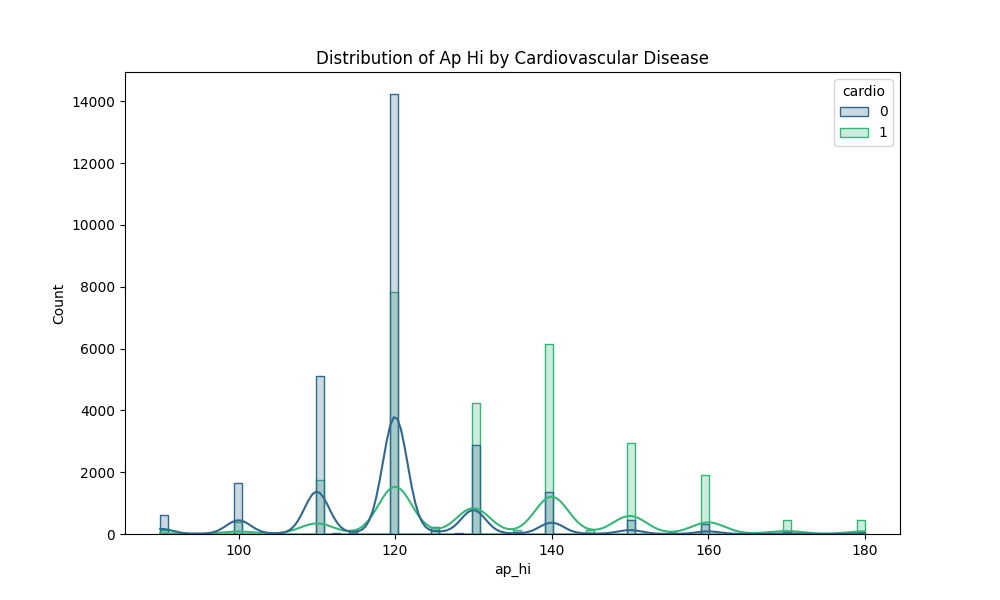
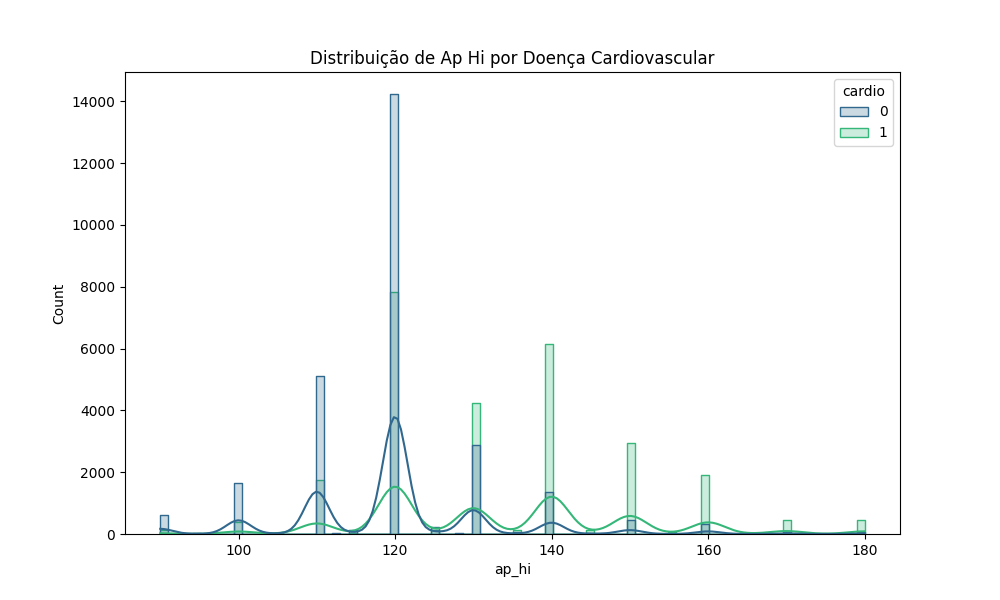
feat: translate all to portuguese

Changed region(s): [[0.31, 0.09, 0.713, 0.12]]

diff --git a/dashboard/pages/naive_bayes.py b/dashboard/pages/naive_bayes.py
@@ -46,16 +46,16 @@ def create_metric_card(title, value, is_highlighted=False):
     )
 
 def read_report_metrics():
-    """Reads metrics from the report file."""
-    metrics = {"Accuracy": "N/A", "Precision": "N/A", "Recall": "N/A", "F1-Score": "N/A", "report": "Report not found."}
+    """Lê métricas do arquivo de relatório."""
+    metrics = {"Accuracy": "N/A", "Precision": "N/A", "Recall": "N/A", "F1-Score": "N/A", "report": "Relatório não encontrado."}
     try:
         with open(REPORTS_PATH / "naive_bayes_report.txt", "r") as f:
             content = f.read()
             metrics["report"] = content
             
             # Use regex to find the values
-            accuracy_match = re.search(r"Accuracy: ([\d.]+)", content)
-            precision_match = re.search(r"Precision: ([\d.]+)", content)
+            accuracy_match = re.search(r"Acurácia: ([\d.]+)", content)
+            precision_match = re.search(r"Precisão: ([\d.]+)", content)
             recall_match = re.search(r"Recall: ([\d.]+)", content)
             f1_match = re.search(r"F1-Score: ([\d.]+)", content)
 
@@ -69,7 +69,7 @@ def read_report_metrics():
                 metrics["F1-Score"] = f"{float(f1_match.group(1)) * 100:.2f}%"
 
     except FileNotFoundError:
-        print("Report file not found.")
+        print("Arquivo de relatório não encontrado.")
     return metrics
 
 def encode_image(image_path):
@@ -94,56 +94,56 @@ continuous_features = ['age_years', 'ap_hi', 'ap_lo', 'bmi']
 # --- Live Prediction Components ---
 prediction_card = dbc.Card(
     dbc.CardBody([
-        html.H4("🔮 Live Prediction", className="card-title text-center mb-4"),
+        html.H4("🔮 Predição em Tempo Real", className="card-title text-center mb-4"),
         dbc.Row([
             # Column 1: Continuous Features
             dbc.Col([
-                dbc.Label("Age (Years)", html_for="nb-age-years"),
-                dbc.Input(id="nb-age-years", type="number", placeholder="e.g., 50", min=3, max=120),
+                dbc.Label("Idade (Anos)", html_for="nb-age-years"),
+                dbc.Input(id="nb-age-years", type="number", placeholder="ex.: 50", min=3, max=120),
                 html.Br(),
-                dbc.Label("Height (cm)", html_for="nb-height"),
-                dbc.Input(id="nb-height", type="number", placeholder="e.g., 168", min=30, max=220),
+                dbc.Label("Altura (cm)", html_for="nb-height"),
+                dbc.Input(id="nb-height", type="number", placeholder="ex.: 168", min=30, max=220),
                 html.Br(),
-                dbc.Label("Weight (kg)", html_for="nb-weight"),
-                dbc.Input(id="nb-weight", type="number", placeholder="e.g., 70.0", min=5, max=400, step=0.1),
+                dbc.Label("Peso (kg)", html_for="nb-weight"),
+                dbc.Input(id="nb-weight", type="number", placeholder="ex.: 70.0", min=5, max=400, step=0.1),
                 html.Br(),
-                dbc.Label("Systolic Blood Pressure (ap_hi)", html_for="nb-ap-hi"),
-                dbc.Input(id="nb-ap-hi", type="number", placeholder="e.g., 120", min=60, max=240),
+                dbc.Label("Pressão Sistólica (ap_hi)", html_for="nb-ap-hi"),
+                dbc.Input(id="nb-ap-hi", type="number", placeholder="ex.: 120", min=60, max=240),
                 html.Br(),
-                dbc.Label("Diastolic Blood Pressure (ap_lo)", html_for="nb-ap-lo"),
-                dbc.Input(id="nb-ap-lo", type="number", placeholder="e.g., 80", min=40, max=180),
+                dbc.Label("Pressão Diastólica (ap_lo)", html_for="nb-ap-lo"),
+                dbc.Input(id="nb-ap-lo", type="number", placeholder="ex.: 80", min=40, max=180),
             ], md=6),
             # Column 2: Categorical Features
             dbc.Col([
-                dbc.Label("Gender", html_for="nb-gender"),
-                dcc.Dropdown(id="nb-gender", options=[{'label': 'Female', 'value': 0}, {'label': 'Male', 'value': 1}], placeholder="Select..."),
+                dbc.Label("Gênero", html_for="nb-gender"),
+                dcc.Dropdown(id="nb-gender", options=[{'label': 'Feminino', 'value': 0}, {'label': 'Masculino', 'value': 1}], placeholder="Selecione..."),
                 html.Br(),
-                dbc.Label("Cholesterol", html_for="nb-cholesterol"),
+                dbc.Label("Colesterol", html_for="nb-cholesterol"),
                 dcc.Dropdown(id="nb-cholesterol", options=[
                     {'label': 'Normal', 'value': 1},
-                    {'label': 'Above Normal', 'value': 2},
-                    {'label': 'Well Above Normal', 'value': 3}
-                ], placeholder="Select..."),
+                    {'label': 'Acima do Normal', 'value': 2},
+                    {'label': 'Muito Acima do Normal', 'value': 3}
+                ], placeholder="Selecione..."),
                 html.Br(),
-                dbc.Label("Glucose", html_for="nb-gluc"),
+                dbc.Label("Glicose", html_for="nb-gluc"),
                 dcc.Dropdown(id="nb-gluc", options=[
                     {'label': 'Normal', 'value': 1},
-                    {'label': 'Above Normal', 'value': 2},
-                    {'label': 'Well Above Normal', 'value': 3}
-                ], placeholder="Select..."),
+                    {'label': 'Acima do Normal', 'value': 2},
+                    {'label': 'Muito Acima do Normal', 'value': 3}
+                ], placeholder="Selecione..."),
                 html.Br(),
-                dbc.Label("Smoker?", html_for="nb-smoke"),
-                dcc.Dropdown(id="nb-smoke", options=[{'label': 'No', 'value': 0}, {'label': 'Yes', 'value': 1}], placeholder="Select..."),
+                dbc.Label("Fumante?", html_for="nb-smoke"),
+                dcc.Dropdown(id="nb-smoke", options=[{'label': 'Não', 'value': 0}, {'label': 'Sim', 'value': 1}], placeholder="Selecione..."),
                 html.Br(),
-                dbc.Label("Drinks Alcohol?", html_for="nb-alco"),
-                dcc.Dropdown(id="nb-alco", options=[{'label': 'No', 'value': 0}, {'label': 'Yes', 'value': 1}], placeholder="Select..."),
+                dbc.Label("Bebe Álcool?", html_for="nb-alco"),
+                dcc.Dropdown(id="nb-alco", options=[{'label': 'Não', 'value': 0}, {'label': 'Sim', 'value': 1}], placeholder="Selecione..."),
                 html.Br(),
-                dbc.Label("Physically Active?", html_for="nb-active"),
-                dcc.Dropdown(id="nb-active", options=[{'label': 'No', 'value': 0}, {'label': 'Yes', 'value': 1}], placeholder="Select..."),
+                dbc.Label("Ativo Fisicamente?", html_for="nb-active"),
+                dcc.Dropdown(id="nb-active", options=[{'label': 'Não', 'value': 0}, {'label': 'Sim', 'value': 1}], placeholder="Selecione..."),
             ], md=6),
         ]),
         html.Div(
-            dbc.Button("Get Prediction", id="nb-predict-button", color="primary", n_clicks=0, className="mt-4 w-100"),
+            dbc.Button("Obter Predição", id="nb-predict-button", color="primary", n_clicks=0, className="mt-4 w-100"),
             className="d-grid gap-2",
         ),
         html.Div(id="nb-prediction-output", className="mt-4 text-center fs-4"),
@@ -156,13 +156,13 @@ layout = dbc.Container([
     # ========== HERO SECTION ==========
     html.Div([
         html.Div([
-            html.H1("📊 Naive Bayes Classifier",
+            html.H1("📊 Classificador Naive Bayes",
                    className="display-4 fw-bold text-white mb-3"),
-            html.P("Probabilistic Classification for Cardiovascular Risk",
+            html.P("Classificação Probabilística para Risco Cardiovascular",
                   className="lead text-white-50 mb-4"),
             dbc.Row([
-                dbc.Col(create_metric_card("Accuracy", metrics["Accuracy"])),
-                dbc.Col(create_metric_card("Precision", metrics["Precision"], is_highlighted=True)),
+                dbc.Col(create_metric_card("Precisão", metrics["Precision"], is_highlighted=True)),
+                dbc.Col(create_metric_card("Acurácia", metrics["Accuracy"])),
                 dbc.Col(create_metric_card("Recall", metrics["Recall"])),
                 dbc.Col(create_metric_card("F1-Score", metrics["F1-Score"])),
             ])
@@ -178,21 +178,21 @@ layout = dbc.Container([
     prediction_card,
 
     # Visualizations
-    html.H3("Model Performance Visualizations", className="my-4 text-center"),
+    html.H3("Visualizações de Desempenho do Modelo", className="my-4 text-center"),
     dbc.Tabs([
-        dbc.Tab(label="Confusion Matrix", children=[
+        dbc.Tab(label="Matriz de Confusão", children=[
             html.Img(src=confusion_matrix_img, style={'width': '100%', 'max-width': '600px', 'margin': 'auto', 'display': 'block'})
         ]),
-        dbc.Tab(label="ROC Curve", children=[
+        dbc.Tab(label="Curva ROC", children=[
             html.Img(src=roc_curve_img, style={'width': '100%', 'max-width': '600px', 'margin': 'auto', 'display': 'block'})
         ]),
-        dbc.Tab(label="Precision-Recall Curve", children=[
+        dbc.Tab(label="Curva Precisão-Recall", children=[
             html.Img(src=pr_curve_img, style={'width': '100%', 'max-width': '600px', 'margin': 'auto', 'display': 'block'})
         ]),
-        dbc.Tab(label="Feature Distributions", children=[
+        dbc.Tab(label="Distribuições de Características", children=[
             dbc.Row([
                 dbc.Col([
-                    html.Label("Select Feature:", className="fw-bold"),
+                    html.Label("Selecione Característica:", className="fw-bold"),
                     dcc.Dropdown(
                         id='dist-feature-dropdown',
                         options=[{'label': feat.replace("_", " ").title(), 'value': feat} for feat in continuous_features],
@@ -208,7 +208,7 @@ layout = dbc.Container([
     html.Hr(className="my-5"),
 
     # Classification Report
-    html.H3("Classification Report", className="my-4"),
+    html.H3("Relatório de Classificação", className="my-4"),
     dbc.Card(
         dbc.CardBody([
             dcc.Markdown(f"```\n{metrics['report']}\n```")
@@ -238,7 +238,7 @@ def predict_live(n_clicks, age_years, height, weight, ap_hi, ap_lo, gender, chol
 
     # Validate that all fields are filled
     if any(v is None for v in [age_years, height, weight, ap_hi, ap_lo, gender, cholesterol, gluc, smoke, alco, active]):
-        return dbc.Alert("Please fill in all fields to get a prediction.", color="warning")
+        return dbc.Alert("Por favor, preencha todos os campos para obter uma predição.", color="warning")
 
     try:
         # Load the entire pipeline (preprocessor + model)
@@ -264,21 +264,21 @@ def predict_live(n_clicks, age_years, height, weight, ap_hi, ap_lo, gender, chol
 
         # Display result
         if prediction == 1:
-            result_text = "High Risk of Cardiovascular Disease"
+            result_text = "Alto Risco de Doença Cardiovascular"
             result_color = "danger"
             prob_value = f"{probability[1]*100:.2f}%"
         else:
-            result_text = "Low Risk of Cardiovascular Disease"
+            result_text = "Baixo Risco de Doença Cardiovascular"
             result_color = "success"
             prob_value = f"{probability[0]*100:.2f}%"
 
         return dbc.Alert([
             html.H5(result_text, className="alert-heading"),
-            html.P(f"Confidence: {prob_value}")
+            html.P(f"Confiança: {prob_value}")
         ], color=result_color)
 
     except Exception as e:
-        return dbc.Alert(f"Prediction failed: {e}", color="danger")
+        return dbc.Alert(f"Falha na predição: {e}", color="danger")
 
 @callback(
     Output('dist-plot-img', 'src'),

diff --git a/classification/naive_bayes/train_naive_bayes.py b/classification/naive_bayes/train_naive_bayes.py
@@ -92,13 +92,13 @@ recall = recall_score(y_test, y_pred)
 f1 = f1_score(y_test, y_pred)
 report = classification_report(y_test, y_pred)
 
-report_content = f"""Best Parameters: {grid_search.best_params_}
-Accuracy: {accuracy}
-Precision: {precision}
+report_content = f"""Melhores Parâmetros: {grid_search.best_params_}
+Acurácia: {accuracy}
+Precisão: {precision}
 Recall: {recall}
 F1-Score: {f1}
 
-Classification Report:
+Relatório de Classificação:
 {report}
 """
 
@@ -113,7 +113,7 @@ X_with_target['cardio'] = y_train
 for feature in continuous_features:
     plt.figure(figsize=(10, 6))
     sns.histplot(data=X_with_target, x=feature, hue='cardio', kde=True, palette='viridis', element='step')
-    plt.title(f'Distribution of {feature.replace("_", " ").title()} by Cardiovascular Disease')
+    plt.title(f'Distribuição de {feature.replace("_", " ").title()} por Doença Cardiovascular')
     plt.savefig(f'classification/results/distributions/dist_{feature}.png')
     plt.close()
 
@@ -121,9 +121,9 @@ for feature in continuous_features:
 cm = confusion_matrix(y_test, y_pred)
 plt.figure(figsize=(8, 6))
 sns.heatmap(cm, annot=True, fmt='d', cmap='Blues')
-plt.title('Naive Bayes Confusion Matrix')
-plt.xlabel('Predicted')
-plt.ylabel('Actual')
+plt.title('Matriz de Confusão - Naive Bayes')
+plt.xlabel('Previsto')
+plt.ylabel('Real')
 plt.savefig('classification/results/naive_bayes_confusion_matrix.png')
 plt.close()
 
@@ -131,11 +131,11 @@ plt.close()
 fpr, tpr, _ = roc_curve(y_test, y_prob)
 roc_auc = auc(fpr, tpr)
 plt.figure(figsize=(8, 6))
-plt.plot(fpr, tpr, color='darkorange', lw=2, label=f'ROC curve (area = {roc_auc:.2f})')
+plt.plot(fpr, tpr, color='darkorange', lw=2, label=f'Curva ROC (área = {roc_auc:.2f})')
 plt.plot([0, 1], [0, 1], color='navy', lw=2, linestyle='--')
-plt.xlabel('False Positive Rate')
-plt.ylabel('True Positive Rate')
-plt.title('Naive Bayes ROC Curve')
+plt.xlabel('Taxa de Falsos Positivos')
+plt.ylabel('Taxa de Verdadeiros Positivos')
+plt.title('Curva ROC - Naive Bayes')
 plt.legend(loc='lower right')
 plt.savefig('classification/results/naive_bayes_roc_curve.png')
 plt.close()
@@ -144,12 +144,12 @@ plt.close()
 precision_curve, recall_curve, _ = precision_recall_curve(y_test, y_prob)
 pr_auc = auc(recall_curve, precision_curve)
 plt.figure(figsize=(8, 6))
-plt.plot(recall_curve, precision_curve, lw=2, color='blue', label=f'Precision-Recall curve (area = {pr_auc:.2f})')
+plt.plot(recall_curve, precision_curve, lw=2, color='blue', label=f'Curva Precisão-Recall (área = {pr_auc:.2f})')
 plt.xlabel('Recall')
-plt.ylabel('Precision')
-plt.title('Naive Bayes Precision-Recall Curve')
+plt.ylabel('Precisão')
+plt.title('Curva Precisão-Recall - Naive Bayes')
 plt.legend(loc='best')
 plt.savefig('classification/results/naive_bayes_pr_curve.png')
 plt.close()
 
-print("Naive Bayes training complete. Artifacts saved.")
+print("Treinamento do Naive Bayes concluído. Artefatos salvos.")

diff --git a/dashboard/pages/random_forest.py b/dashboard/pages/random_forest.py
@@ -690,7 +690,7 @@ layout = dbc.Container([
             ]
         ),
         
-        # ========== TAB 3: INTERPRETAÇÃO (FEATURE IMPORTANCE) ==========
+        # ========== TAB 3: INTERPRETAÇÃO (IMPORTÂNCIA DAS FEATURES) ==========
         dbc.Tab(
             label="⭐ Interpretation",
             tab_id="tab-interpretation",
